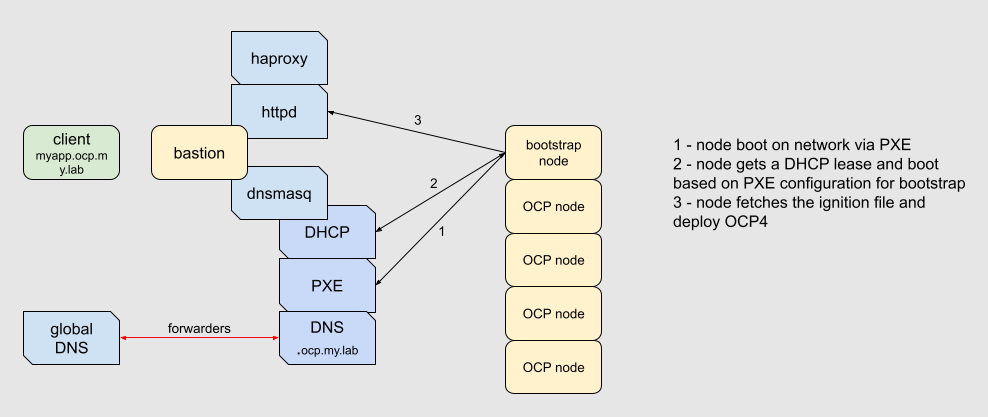
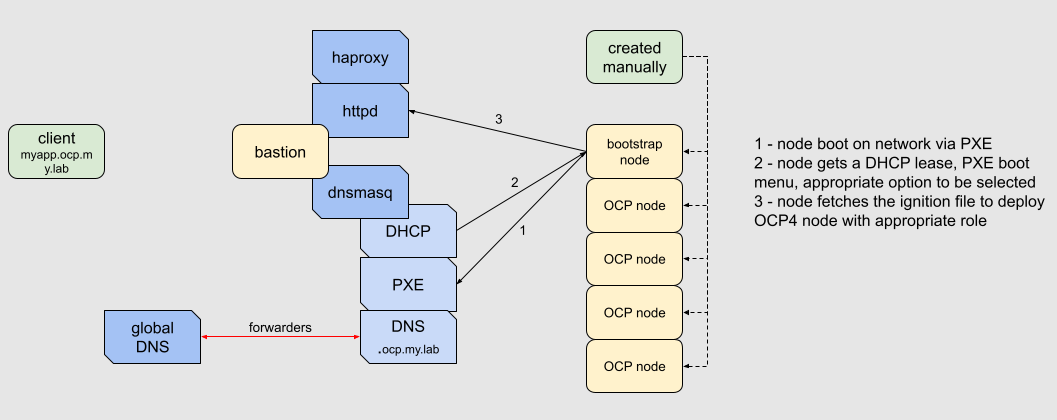
update documentation

Changed region(s): [[0.0304, 0.0624, 1.0, 0.9664], [0.0, 0.2806, 0.1215, 0.4365], [0.5466, 0.0624, 0.668, 0.2182]]

diff --git a/README.md b/README.md
@@ -1,34 +1,37 @@
 # OpenShift Container Platform 4 Lab
-This set of ansible plays provides the necessary automation to deploy an OpenShift Container Platform v4.x (OCP4) lab environment using the bare metal UPI method.
-Doing so provides platform agnostic approach which will fit any on-prem or cloud based deployment. 
+This set of ansible plays provides the necessary automation to deploy a Red Hat OpenShift Container Platform v4.x (OCP4) lab environment using the bare metal UPI method.
+Doing so provides a platform agnostic approach which will fit any on-prem or cloud based (supported or not) deployment. 
 
 Notes: 
-0. knowledge of OCP installation is required, this is not (yet) a fully assisted deployment
-1. a single bastion host with 2vCPUs, 4GB RAM, and 30GB of HDD should be sufficient running CentOS/RHEL 7.x 
-2. if RHEL is used, valid subscriptions are required
+0. knowledge of OCP installation is required, this is not (yet) a fully assisted deployment.
+1. a bastion host with 2vCPUs, 4GB RAM, and 30GB HDD should be sufficient running CentOS/RHEL7.x.
+2. if RHEL is used, valid subscriptions are required.
+3. the Red Hat variant of OCP4 requires a valid subscription after the 60 days of trial.
 
 ## Environment
-The automation will require a first CentOS VM that provides the following services:
+The automation requires one CentOS (virtual) machine that provides the following services:
 - DNS
 - DHCP
 - PXE
-- HTTP
+- HTTPD
 - HAPROXY
 
-These services will help in provisioning and accessing the OCP4. Here is a diagram related to the provisioning workflow within the current state of the project:
+These services will help in provisioning and accessing the OCP4 environment. The following diagram  provides a provisioning workflow overview within the current state of the project:
 
 ![provisioning workflow](docs/prov_workflow.png)
 
-The above will help in the provisioning of the OCP4 environment. Note that the DNS & HAPROXY are not a replacement for enterprise solutions and should
-only be considered within the context of a lab or helper till the production DNS and load balancers are available and configured. 
+Note: the DNS and HAPROXY services are only for a lab environment within a self-contained bubble. If this automation is foreseen for a production deployment, the corporate DNS and load balancers should be used.
 
-The following (virtual) machines will be required
-- 1 (V)M for the bastion host
-- 1 (V)M for the OCP4 bootstrap, this one will be decommissioned at the end of the deployment
-- 3 (V)M for the master nodes acting also as workers (this is a lab!). 
-These (V)Ms will have:
-- the boot from network as first option to allow the PXE boot and don't forget the let the hard drive a secondary chose so that it can boot automatically
+This next diagram provide an access workflow overview within the current state of the project:
 
+![access worfklow](docs/access_workflow.png)
+
+The following (virtual) machine will be required:
+- 1 (virtual) machine for the bastion host.
+- 1 (virtual) machine for the bootstrap, it will be decommissioned at the end of the deployment.
+- 3 (virtual) machine for the master nodes acting. These can also act as workers.
+- 2 (virtual) machine for the worker nodes. 
+Except for the bastion, all the (virtual) machine will be configured to boot from network as first option. The provided PXE boot menu will boot on the local drive if there isn't any actions.
 
 ## Using the plays
 ### Parameters
